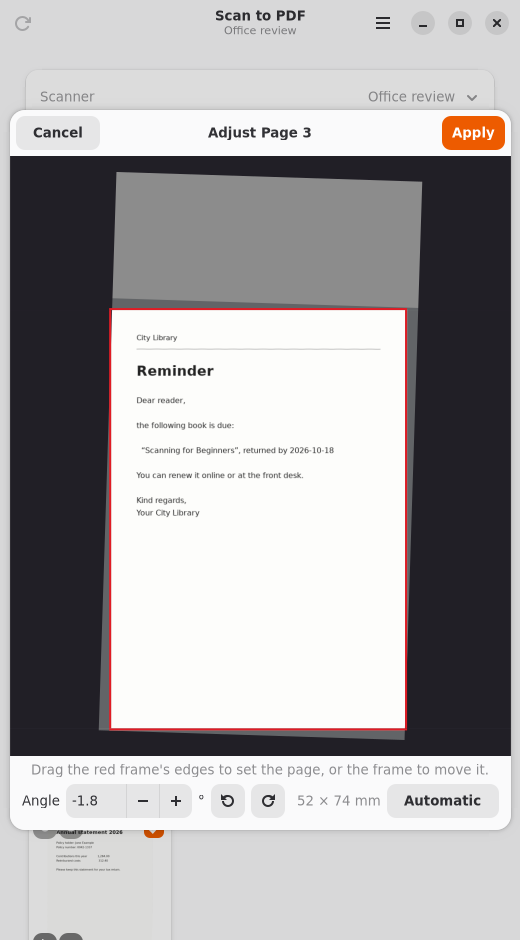
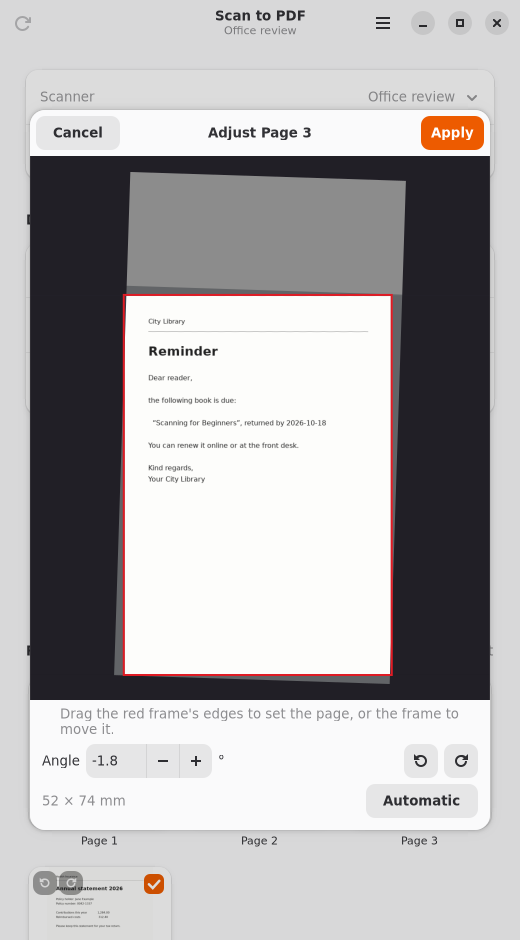
GUI: scan more pages into the same document; page editor fits narrow windows
In the review step, Scan scans the feeder again and adds the pages to the
document (numbered on, ticks and corrections kept); only Save or Discard
ends it. A failed or cancelled added scan keeps the pages before it
(scan_to_file: select_pages may return SCAN_MORE, on_more_failed).

The page editor's controls take two rows, so Apply and all buttons fit
the window's narrowest width.

Changed region(s): [[0.0, 0.0926, 0.9846, 1.0], [0.2769, 0.9255, 0.3385, 0.9564], [0.2769, 0.8638, 0.3077, 0.8947]]

diff --git a/gui/wsdscan_gui.py b/gui/wsdscan_gui.py
@@ -603,7 +603,7 @@ class PageEditor(Adw.Dialog):
         self.angle = Gtk.SpinButton(
             adjustment=Gtk.Adjustment(lower=-self.ANGLE_LIMIT, upper=self.ANGLE_LIMIT,
                                       step_increment=0.1, page_increment=1),
-            digits=1, numeric=True, valign=Gtk.Align.CENTER,
+            digits=1, numeric=True, valign=Gtk.Align.CENTER, width_chars=6,
             tooltip_text=_("Straighten by this angle (clockwise tilt in the scan)"))
         self.angle.set_value(self.state[4])
         self.angle.connect("value-changed", self._angle_changed)
@@ -616,16 +616,20 @@ class PageEditor(Adw.Dialog):
         turn_right.connect("clicked", lambda *_a: self.turn_by(90))
         reset = Gtk.Button(label=_("Automatic"), tooltip_text=_("Back to the values found"))
         reset.connect("clicked", lambda *_a: self.reset())
-        tools = Gtk.Box(spacing=6, margin_start=12, margin_end=12, margin_top=6,
-                        margin_bottom=12)
-        tools.append(Gtk.Label(label=_("Angle")))
-        tools.append(self.angle)
-        tools.append(Gtk.Label(label="°"))
-        tools.append(turn_left)
-        tools.append(turn_right)
-        tools.append(Gtk.Box(hexpand=True))
-        tools.append(self.size_label)
-        tools.append(reset)
+        # Two rows, so that all of it fits a narrow window.
+        angle_row = Gtk.Box(spacing=6)
+        for widget in (Gtk.Label(label=_("Angle")), self.angle, Gtk.Label(label="°"),
+                       Gtk.Box(hexpand=True), turn_left, turn_right):
+            angle_row.append(widget)
+        self.size_label.set_hexpand(True)
+        self.size_label.set_xalign(0)
+        size_row = Gtk.Box(spacing=6)
+        size_row.append(self.size_label)
+        size_row.append(reset)
+        tools = Gtk.Box(orientation=Gtk.Orientation.VERTICAL, spacing=6, margin_start=12,
+                        margin_end=12, margin_top=6, margin_bottom=12)
+        tools.append(angle_row)
+        tools.append(size_row)
         hint = Gtk.Label(label=_("Drag the red frame's edges to set the page, or the frame to "
                                  "move it."), wrap=True, css_classes=["dim-label"],
                          margin_start=12, margin_end=12, margin_top=6)
@@ -940,6 +944,7 @@ class MainWindow(Adw.ApplicationWindow):
         self.ocr_total = 0
         self.blank_pages = 0    # found blank in the current scan
         self.scan_reviewed = False
+        self.closing = False
         self.review_open = False  # page corrections can be switched (review, before saving)
         self.scan_dpi = 300
         self.page_count = Gtk.Label(css_classes=["dim-label"])
@@ -1006,6 +1011,7 @@ class MainWindow(Adw.ApplicationWindow):
         if self.app.tray_active():
             self.set_visible(False)  # keep running in the status bar
             return True
+        self.closing = True
         if self.cancel_event:
             self.cancel_event.set()
         if self.review:
@@ -1109,6 +1115,7 @@ class MainWindow(Adw.ApplicationWindow):
         # File name and folder stay editable: they are read only when saving.
         # The scan settings row is locked through its action.
         self.scan_button.set_visible(not busy)
+        self.scan_button.add_css_class("suggested-action")  # (not while reviewing)
         self.cancel_button.set_visible(busy)
         self.actions["scan"].set_enabled(not busy)
         self.actions["reconnect"].set_enabled(not busy)
@@ -1151,6 +1158,10 @@ class MainWindow(Adw.ApplicationWindow):
             tile.set_review(True)
         self.cancel_button.set_visible(False)
         self.review_bar.set_visible(True)
+        # Scan adds pages from another feeder load to the same document.
+        self.scan_button.remove_css_class("suggested-action")
+        self.scan_button.set_visible(True)
+        self.actions["scan"].set_enabled(True)
         self.update_page_count()
         self.set_progress(scanform.progress_text("review", len(self.tiles)))
         if not self.is_visible():
@@ -1169,11 +1180,46 @@ class MainWindow(Adw.ApplicationWindow):
             tile.set_review(False)
             tile.set_corrections_editable(False)
         self.review_bar.set_visible(False)
+        self.end_scan_more()
         self.cancel_button.set_visible(True)
         event.set()
 
+    def scan_more(self):
+        """Scan in the review step: scan the feeder again into the same
+        document (the scan thread waits in select_pages)."""
+        event, result = self.review
+        self.review = None
+        result["keep"] = wsdscan.SCAN_MORE
+        for tile in self.tiles:
+            tile.set_review(False)  # back with the review
+        self.review_bar.set_visible(False)
+        self.end_scan_more()
+        self.cancel_button.set_visible(True)
+        self.cancel_button.set_sensitive(True)
+        self.set_progress(scanform.progress_text("scanning", 0))
+        event.set()
+
+    def end_scan_more(self):
+        self.scan_button.set_visible(False)
+        self.scan_button.add_css_class("suggested-action")
+        self.actions["scan"].set_enabled(False)
+
+    def more_failed(self, error):
+        """Scanning more pages failed or was cancelled: the pages before stay."""
+        if isinstance(error, wsdscan.ScanCancelled):
+            self.toasts.add_toast(Adw.Toast(use_markup=False, title=_(
+                "Scan cancelled; the pages scanned before are kept")))
+        else:
+            self.show_error(str(error))
+
     def on_progress(self, event, pages):
         """Scan progress in the main loop: counter, OCR state per page."""
+        if event == "more_failed":  # pages of the failed scan are not kept
+            for tile in self.tiles[pages:]:
+                self.page_grid.remove(tile)
+            del self.tiles[pages:]
+            self.update_page_count()
+            return
         if event == "blank":
             self.blank_pages += 1
             return  # the tile shows it; keep the progress text
@@ -1201,6 +1247,9 @@ class MainWindow(Adw.ApplicationWindow):
     # --- scanning -----------------------------------------------------------
 
     def on_scan(self, *_args):
+        if self.review:
+            self.scan_more()
+            return
         if self.cancel_event:
             return
         if not self.name_row.get_text().strip():
@@ -1263,11 +1312,17 @@ class MainWindow(Adw.ApplicationWindow):
             saved["out"] = out
             return out
 
+        def more_failed(error):
+            """In the scan thread, before the review comes back."""
+            if not self.closing:
+                cancel.clear()  # cancelled the added scan only
+            in_main_thread(self.more_failed, error)
+
         def work():
             pages, complete, ocr_error = wsdscan.scan_to_file(
                 args, output_path, device=self.device, on_progress=progress,
                 should_stop=cancel.is_set, on_page_image=page_image,
-                select_pages=select_pages if review else None)
+                select_pages=select_pages if review else None, on_more_failed=more_failed)
             return saved["out"], pages, complete, ocr_error
 
         run_in_thread(work, self._scan_done, self._scan_failed)

diff --git a/gui/tests/test_gui_gtk.py b/gui/tests/test_gui_gtk.py
@@ -11,6 +11,7 @@ import sys
 import tempfile
 import time
 import unittest
+from unittest import mock
 
 HERE = os.path.dirname(os.path.abspath(__file__))
 GUI = os.path.dirname(HERE)
@@ -522,6 +523,9 @@ class GtkTest(unittest.TestCase):
             editor = tile.open_editor()
             view = editor.view
             wait_for(lambda: view.get_width() > 0)
+            # Everything fits the window's narrowest width (360).
+            self.assertLessEqual(editor.get_child().measure(Gtk.Orientation.HORIZONTAL, -1)[0],
+                                 360)
             self.assertAlmostEqual(editor.angle.get_value(), 3.5, delta=0.05, msg="prefilled")
             self.assertEqual(editor.state, wsdscan.manual_geometry(tile.info))
             # The red frame's right edge is where the page ends, and can be grabbed.
@@ -661,6 +665,37 @@ class GtkTest(unittest.TestCase):
         files = os.listdir(out_dir)
         self.assertEqual(len(files), 1)
         self.assertTrue(files[0].startswith("Fallback "))
+
+    def test_scan_more_pages_in_review(self):
+        with FakeScanner(model="ES-580W", sheets=2) as fake:
+            _app, window, out_dir = self.start_app(fake)
+            window.settings.review.set_active(True)
+            window.on_scan()
+            wait_for(lambda: window.review is not None)
+            self.assertTrue(window.scan_button.get_visible())
+            self.assertTrue(window.actions["scan"].get_enabled())
+            window.tiles[1].keep.set_active(False)
+            fake.config["sheets"] = 1
+            window.actions["scan"].activate(None)  # Scan again: more pages, same document
+            self.assertIsNone(window.review)
+            self.assertFalse(window.scan_button.get_visible())
+            wait_for(lambda: window.review is not None)
+            self.assertEqual([tile.number for tile in window.tiles], [1, 2, 3, 4, 5, 6])
+            self.assertEqual(window.page_count.get_text(), "5 of 6 pages kept")
+            fake.config["sheets"] = 0  # an empty feeder: the pages so far stay
+            with mock.patch.object(window, "show_error") as error:
+                window.on_scan()
+                wait_for(lambda: window.review is not None)
+            error.assert_called_once()
+            self.assertEqual(len(window.tiles), 6)
+            self.assertEqual(os.listdir(out_dir), [], "nothing saved before Save")
+            window.finish_review(True)
+            wait_for(lambda: window.cancel_event is None)
+            self.assertTrue(window.scan_button.has_css_class("suggested-action"))
+            window.close()
+        files = os.listdir(out_dir)
+        with open(os.path.join(out_dir, files[0]), "rb") as f:
+            self.assertEqual(f.read().count(b"/Type /Page "), 5)
 
     def test_review_discard_saves_nothing(self):
         with FakeScanner(model="ES-580W", sheets=1) as fake:

diff --git a/wsdscan.py b/wsdscan.py
@@ -905,8 +905,12 @@ def scan(service, args, caps, on_page=None, should_stop=None):
     return pages, dpi, complete
 
 
+SCAN_MORE = "more"  # select_pages(): scan more pages into the same document
+
+
 def scan_to_file(args, out, device=None, on_progress=None, should_stop=None,
-                 on_page_image=None, select_pages=None, overwrite=False):
+                 on_page_image=None, select_pages=None, overwrite=False,
+                 on_more_failed=None):
     """Find the scanner (unless given), check the settings, scan, write the PDF,
     and run text recognition if args.ocr is set.
 
@@ -926,6 +930,11 @@ def scan_to_file(args, out, device=None, on_progress=None, should_stop=None,
     (in order); None discards the scan. It may also switch corrections off
     in an info's "use". Called after scanning, before saving/OCR. Without it,
     blank pages are removed (args.skip_blank) unless all pages are blank.
+    It may also return SCAN_MORE: the feeder is scanned again with the same
+    settings, its pages are added (numbered on), and select_pages is asked
+    again with all of them. If that scan fails or is stopped, the pages
+    before it stay: on_progress("more_failed", n) with the pages kept and
+    on_more_failed(error) are called, then select_pages again.
     `out` is the PDF path, or a function returning it: then it is called
     right before saving, so the name and folder can still change while
     scanning and during page selection.
@@ -967,6 +976,22 @@ def scan_to_file(args, out, device=None, on_progress=None, should_stop=None,
                                     should_stop=should_stop)
     if select_pages:
         keep = select_pages(pages, infos)
+        while keep is SCAN_MORE:
+            first = len(pages)
+            report("scanning", first)
+            try:
+                more, _dpi, done = run_scan(
+                    device, args, caps, should_stop=should_stop,
+                    on_page=lambda n, image: page_done(first + n, image))
+            except ScanError as e:  # also stopped: keep what was scanned before
+                del infos[first:]
+                report("more_failed", first)
+                if on_more_failed:
+                    on_more_failed(e)
+            else:
+                pages = pages + more
+                complete = complete and done
+            keep = select_pages(pages, infos)
         if keep is None:
             raise ScanCancelled("scan discarded")
         if not keep:

diff --git a/tests/test_wsdscan.py b/tests/test_wsdscan.py
@@ -1084,6 +1084,37 @@ class ScanToFileTest(unittest.TestCase):
         self.assertEqual(events, [("connecting", 0), ("scanning", 0), ("page", 1), ("page", 2),
                                   ("page", 3), ("page", 4), ("saving", 4)])
 
+    def test_scan_more_into_the_same_document(self):
+        events, numbers, offered, failed = [], [], [], []
+        with tempfile.TemporaryDirectory() as d, FakeScanner(**ES580W_PROFILE, sheets=2) as fake:
+            out = os.path.join(d, "out.pdf")
+
+            def select(pages, infos):
+                offered.append(len(pages))
+                if len(offered) == 1:
+                    fake.config["sheets"] = 1
+                    return tool.SCAN_MORE
+                if len(offered) == 2:
+                    fake.config["sheets"] = 0  # an empty feeder: the pages so far stay
+                    return tool.SCAN_MORE
+                self.assertEqual(len(infos), len(pages))
+                return [0, 5]
+
+            pages, complete, _err = tool.scan_to_file(
+                args(host=fake.host, model=None), out,
+                on_progress=lambda event, n: events.append((event, n)),
+                on_page_image=lambda n, data, info: numbers.append(n), select_pages=select,
+                on_more_failed=failed.append)
+            with open(out, "rb") as f:
+                self.assertEqual(parse_pdf(f.read())["pages"], 2)
+        self.assertEqual((pages, complete), (2, True))
+        self.assertEqual(offered, [4, 6, 6])
+        self.assertEqual(numbers, [1, 2, 3, 4, 5, 6], "numbered on")
+        self.assertIn(("scanning", 4), events)
+        self.assertIn(("more_failed", 6), events)
+        self.assertEqual(len(failed), 1)
+        self.assertIsInstance(failed[0], tool.ScanError)
+
     def test_page_images_and_selection(self):
         images, offered = [], []
         with tempfile.TemporaryDirectory() as d, FakeScanner(**ES580W_PROFILE, sheets=2) as fake:

diff --git a/gui/scanform.py b/gui/scanform.py
@@ -431,7 +431,7 @@ def progress_text(event, pages, total=0):
     if event == "ocr_page":
         return _("Recognizing text: page {n} of {total}").format(n=pages, total=total)
     if event == "review":
-        return _("Untick the pages you don’t want, then click Save. "
+        return _("Untick the pages you don’t want, then click Save. Scan adds more pages. "
                  "You can still change the file name and folder.")
     return ""
 

diff --git a/gui/README.md b/gui/README.md
@@ -58,12 +58,13 @@ tar -xzf scan-to-pdf-<version>.tar.gz && cd scan-to-pdf-<version> && ./install.s
    File name and folder stay editable while scanning: they are only used when the PDF is saved, after the last page (or when you click **Save** in the review step). An empty file name falls back to the default name.
 5. With **Review pages before saving** switched on (Scan settings; default off, i.e. every page is processed), the app pauses after the last page:
    - Untick the pages you don't want, then click **Save** (or press Enter in the file name). You can still change the file name and folder now.
+   - **Scan** adds more pages to the same document: load the next stack into the feeder and click **Scan** again, as often as you like. The new pages are numbered on, and nothing is saved until you click **Save**. They are scanned with the same settings; to change the settings, save first. If that scan fails (e.g. an empty feeder) or you cancel it, the pages scanned before stay.
    - With **Remove blank pages** on, blank pages already start unticked; tick one to keep it after all.
    - Each correction made to a page shows as an icon on its thumbnail: cut to the sheet (paper size **Automatic**), straightened, turned upright. Click an icon to switch that correction off for this page (the thumbnail shows the result), and again to switch it back on. The tooltip says what was done, e.g. "Straightened by 3.4°". This works until you click **Save**; also while the pages are still being scanned.
    - **Double-click a page** to adjust it in detail. The editor shows the whole scan, already straightened and turned as the page will be, with the page as a red frame:
      - Drag an edge (or a corner) of the frame to move it; drag inside the frame to move the whole frame. It stays within the scan, at least 1 cm in size.
      - **Angle** straightens by any angle (−180° to 180°), prefilled with the angle found; the frame keeps its size and middle. The two arrow buttons turn by 90°.
-     - **Automatic** goes back to the values found; **Apply** takes the settings, **Cancel** drops them.
+     - **Automatic** goes back to the values found; **Apply** takes the settings, **Cancel** drops them. The controls take two rows, so that all of them fit a narrow window.
      
      After **Apply**, the thumbnail shows the adjusted page and one icon, "adjusted by hand", stands for it in place of the cut and straighten icons; click it to switch back to the automatic corrections. The PDF is saved like that, and text recognition follows it. Like the icons, this works until you click **Save**.
    - To turn a page by hand, use the two buttons at the top left of its thumbnail: **Turn left** and **Turn right** (90° each). This comes on top of the corrections, e.g. for a page that **Turn pages upright** couldn't judge, and also works without that switch.

diff --git a/README.md b/README.md
@@ -319,7 +319,7 @@ IEEE 802.1X, also supported by the scanner, authenticates the scanner to the net
 
 `gui/` contains **Scan to PDF**, a GTK 4 / libadwaita desktop app for GNOME, KDE Plasma and Ubuntu, built on this tool:
 - **Scanners:** several scanners, each with its own settings, edited in its preferences.
-- **During a scan:** page preview with a counter, optional removal of blank pages, an optional review step to remove pages before saving and OCR, and OCR progress per page.
+- **During a scan:** page preview with a counter, optional removal of blank pages, an optional review step to remove pages before saving and OCR (and to scan more pages into the same document), and OCR progress per page.
 - **Desktop integration:** a status bar icon, start at login, desktop notifications and the desktop's own file dialogs.
 
 Install it with `gui/install.sh`, which also installs this tool as the `wsdscan` command. See [gui/README.md](gui/README.md).
